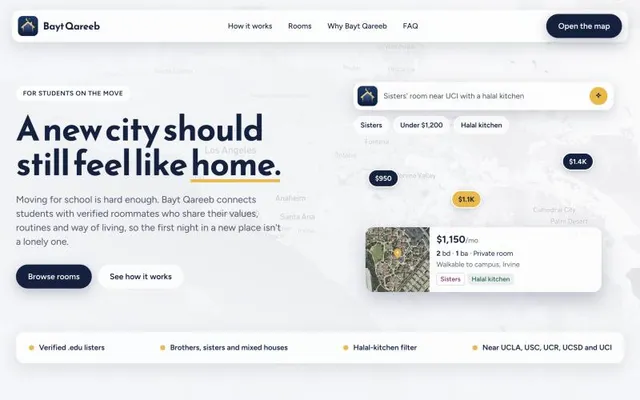
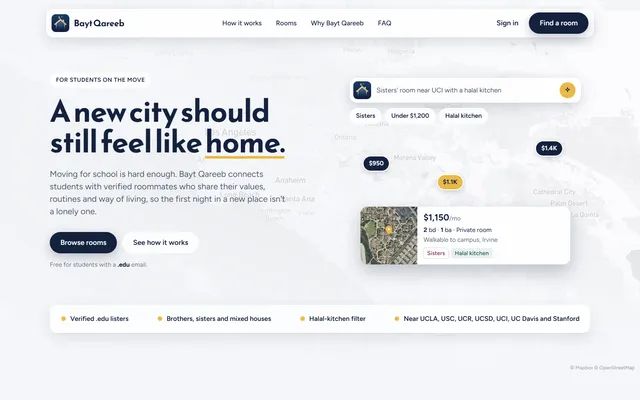
fix: Bayt Qareeb card from a live landing capture; drop the repeated prize line

diff --git a/src/content/projects.ts b/src/content/projects.ts
@@ -189,19 +189,20 @@ export const projects: Project[] = [
       'Team project. I built the backend on Supabase Postgres, the Clerk sign-in that admits only .edu students and the CI/CD pipeline, and reworked the landing page. Waleed Alghaithi built the map UI and Abas Mohamed built the first landing page.',
     stack: ['Next.js', 'TypeScript', 'Supabase', 'Clerk', 'Mapbox', 'Prisma', 'GitHub Actions'],
     result:
-      'Won a $200 prize at the MTC x Replit x Manara West Buildathon. Live with 80 seed listings around seven California campuses, each checked in CI to sit within 5 miles of a campus.',
+      'Live with 80 seed listings around seven California campuses, each checked in CI to sit within 5 miles of a campus.',
     links: {
       github: 'https://github.com/waleedA13/Bayt-Qareeb',
       live: 'https://manara-west.vercel.app',
       demo: 'https://youtu.be/dgyNZPzzhyE',
     },
-    // The repo's docs/screenshots/landing.jpg is 800 x 500, so 800 is the largest width.
+    // Signed-out capture of the live landing page, 1440 x 900 at 2x, taken 2026-11-10.
     image: {
-      src: '/bayt-qareeb-800.webp',
-      srcSet: '/bayt-qareeb-480.webp 480w, /bayt-qareeb-640.webp 640w, /bayt-qareeb-800.webp 800w',
-      width: 800,
-      height: 500,
-      alt: "Bayt Qareeb's landing page: the headline A new city should still feel like home, a search for a sisters' room near UCI with a halal kitchen, and a $1,150 private room in Irvine on the map",
+      src: '/bayt-qareeb-1100.webp',
+      srcSet:
+        '/bayt-qareeb-480.webp 480w, /bayt-qareeb-640.webp 640w, /bayt-qareeb-960.webp 960w, /bayt-qareeb-1100.webp 1100w',
+      width: 1100,
+      height: 688,
+      alt: "Bayt Qareeb's landing page: the headline A new city should still feel like home over a map of Southern California, a search for a sisters' room near UCI with a halal kitchen, a $1,150 private room in Irvine, and a strip naming UCLA, USC, UCR, UCSD, UCI, UC Davis and Stanford",
       tone: 'light',
     },
     featured: false,

diff --git a/e2e/images.spec.ts b/e2e/images.spec.ts
@@ -66,7 +66,6 @@ const SOURCE_LIMITED: Record<string, string> = {
   stockroom: 'awaiting ≥1280 px owner capture', // 920 px master; a grid card at 1440 @2 wants 925
   'personal-tracker': 'awaiting ≥1280 px owner capture', // 1200 px master, 840 px crop
   sim2real: 'awaiting larger original', // 560 px
-  'bayt-qareeb': 'awaiting larger original', // the repo's landing.jpg is 800 px
 }
 const stem = (src: string) => src.replace(/-\d+\.\w+$/, '')
 
